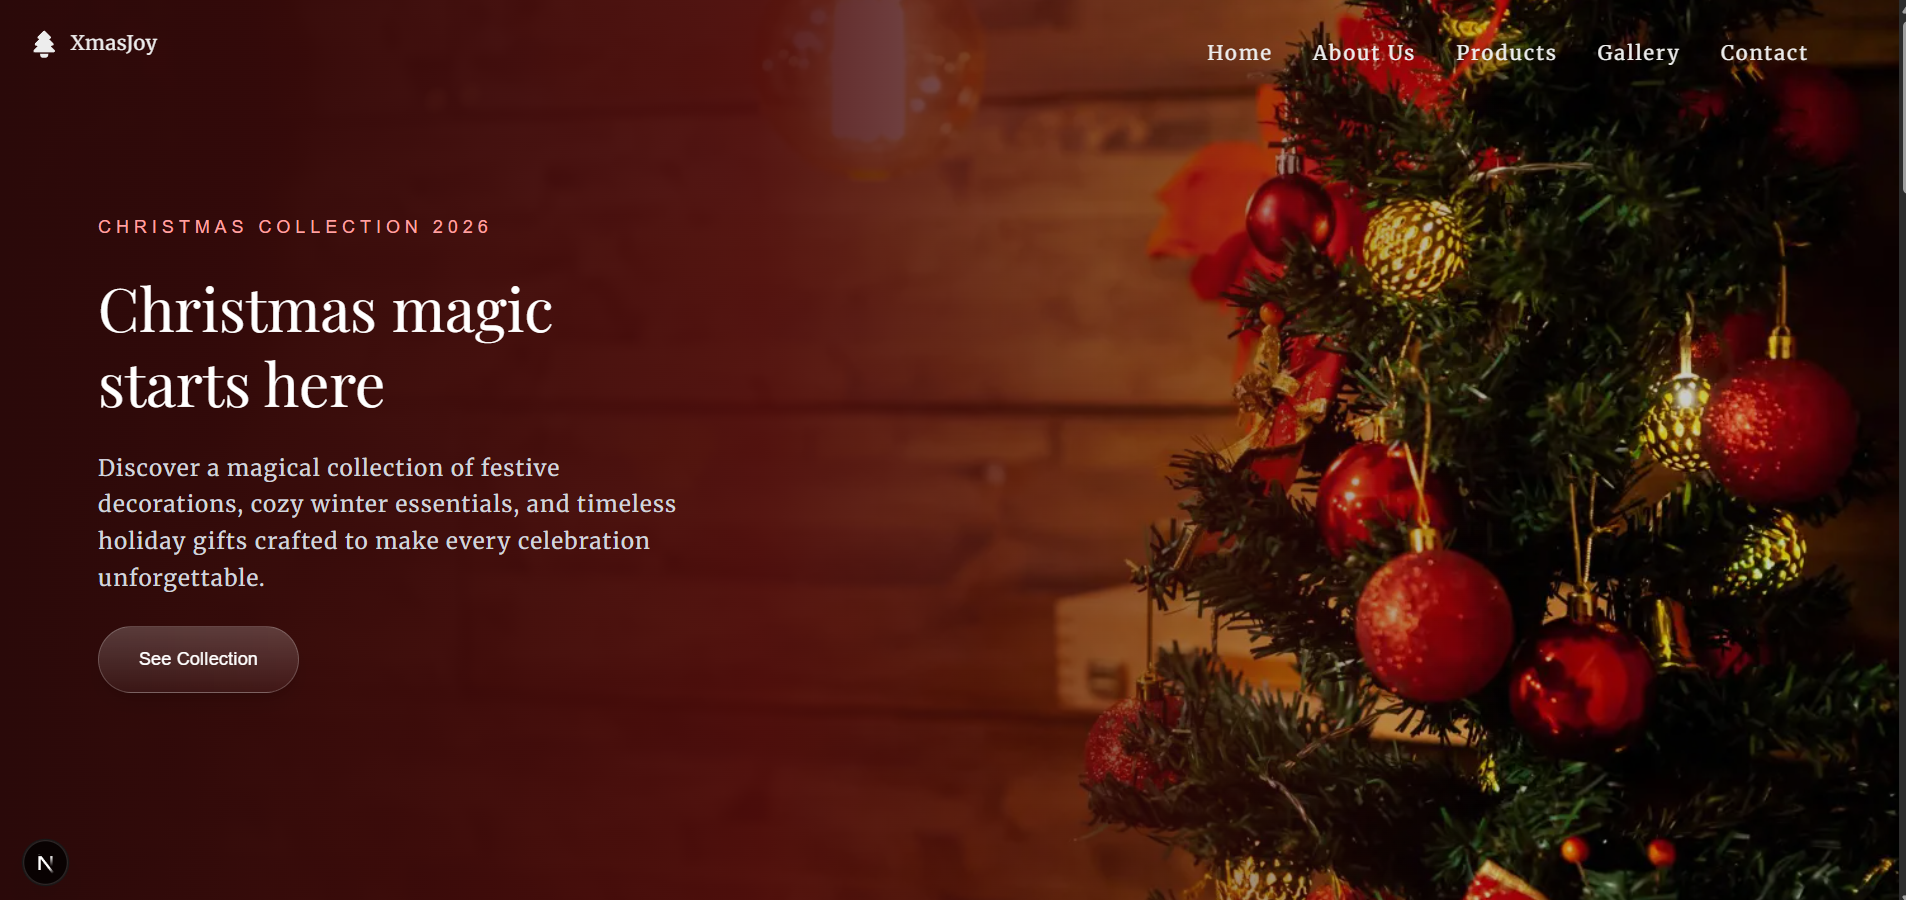
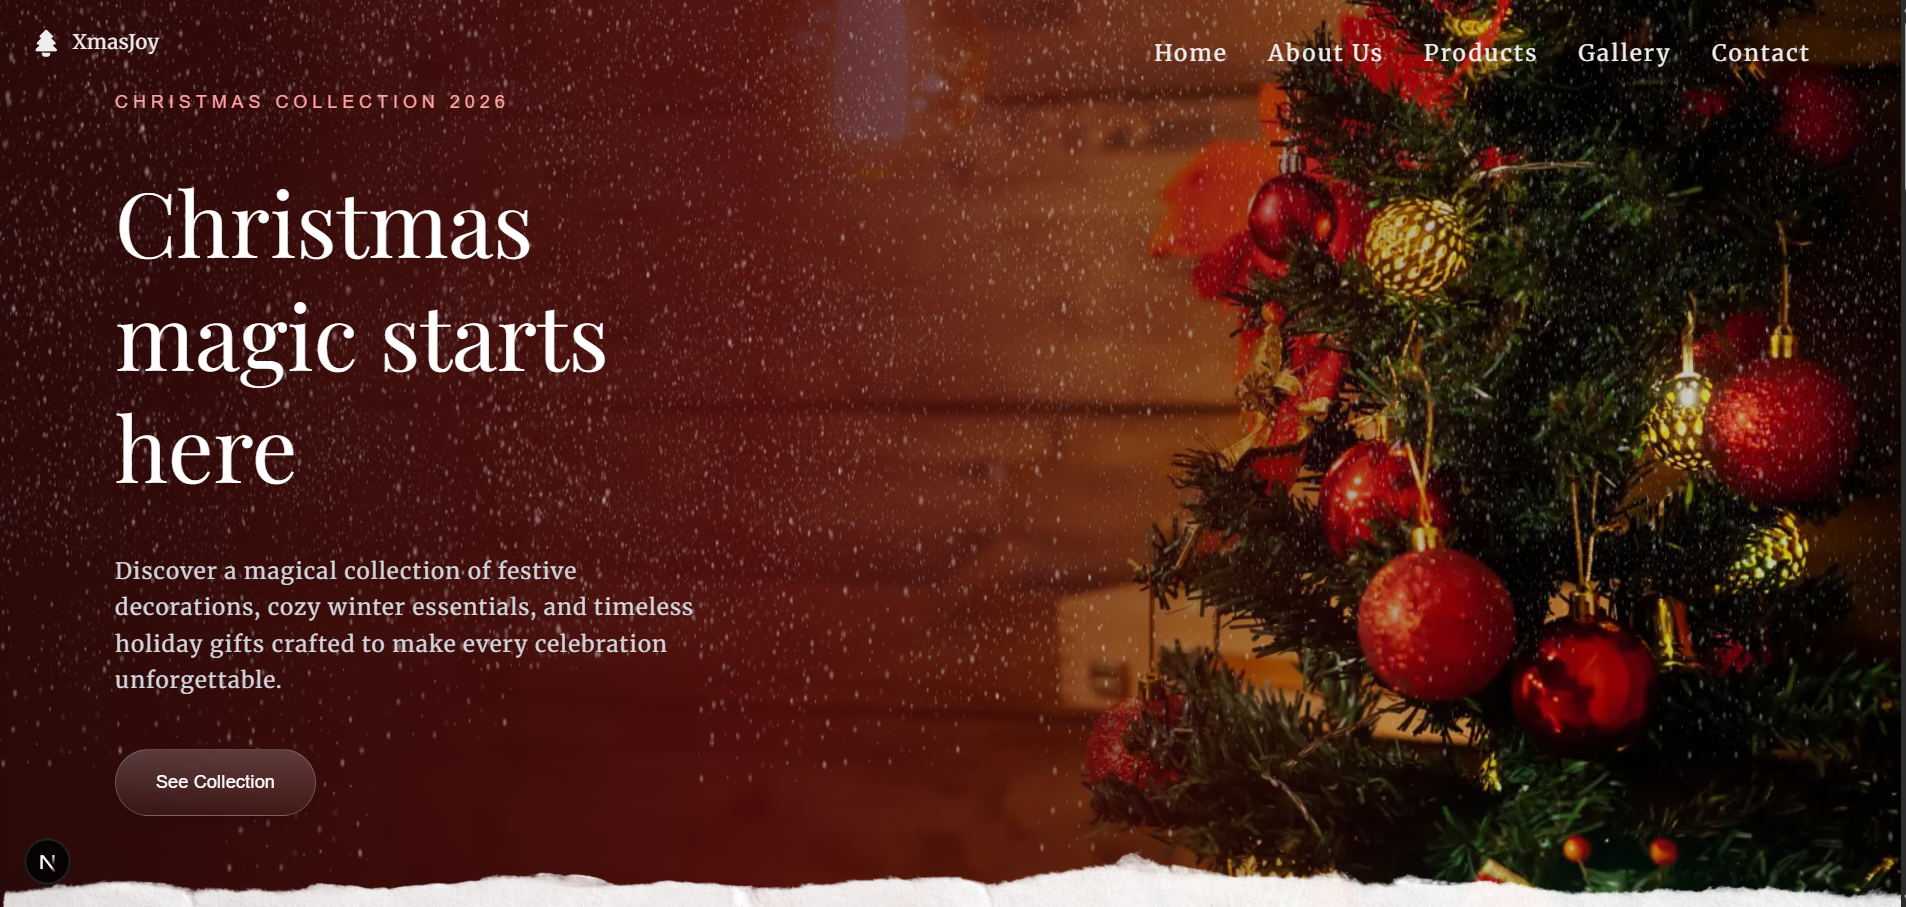
feat: project images & coding time updated

diff --git a/src/components/CodingTime.jsx b/src/components/CodingTime.jsx
@@ -9,9 +9,9 @@ import {
 } from "../styles/CodingTimeStyles";
 
 const CODING_DATA = {
-    HOURS: 2362,
-    MINUTES: 12,
-    LAST_UPDATE: "2026-05-16"
+    HOURS: 2373,
+    MINUTES: 32,
+    LAST_UPDATE: "2026-05-22"
 };
 
 const TARGET_TOTAL_MINUTES = (CODING_DATA.HOURS * 60) + CODING_DATA.MINUTES;

diff --git a/src/data.js b/src/data.js
@@ -128,7 +128,6 @@ export const projects = [
         projectImage: christmasLanding,
         frontendRepo: 'https://github.com/RobertFacundo/christmas-landing',
         deployedUrl: 'https://christmas-landing-kappa.vercel.app/',
-        isWip: true,
         subtitle: "Next • Tailwind CSS • TypeScript • Three.js •  GSAP • Lenis",
         date: "2026-05-16",
         type: "frontend"